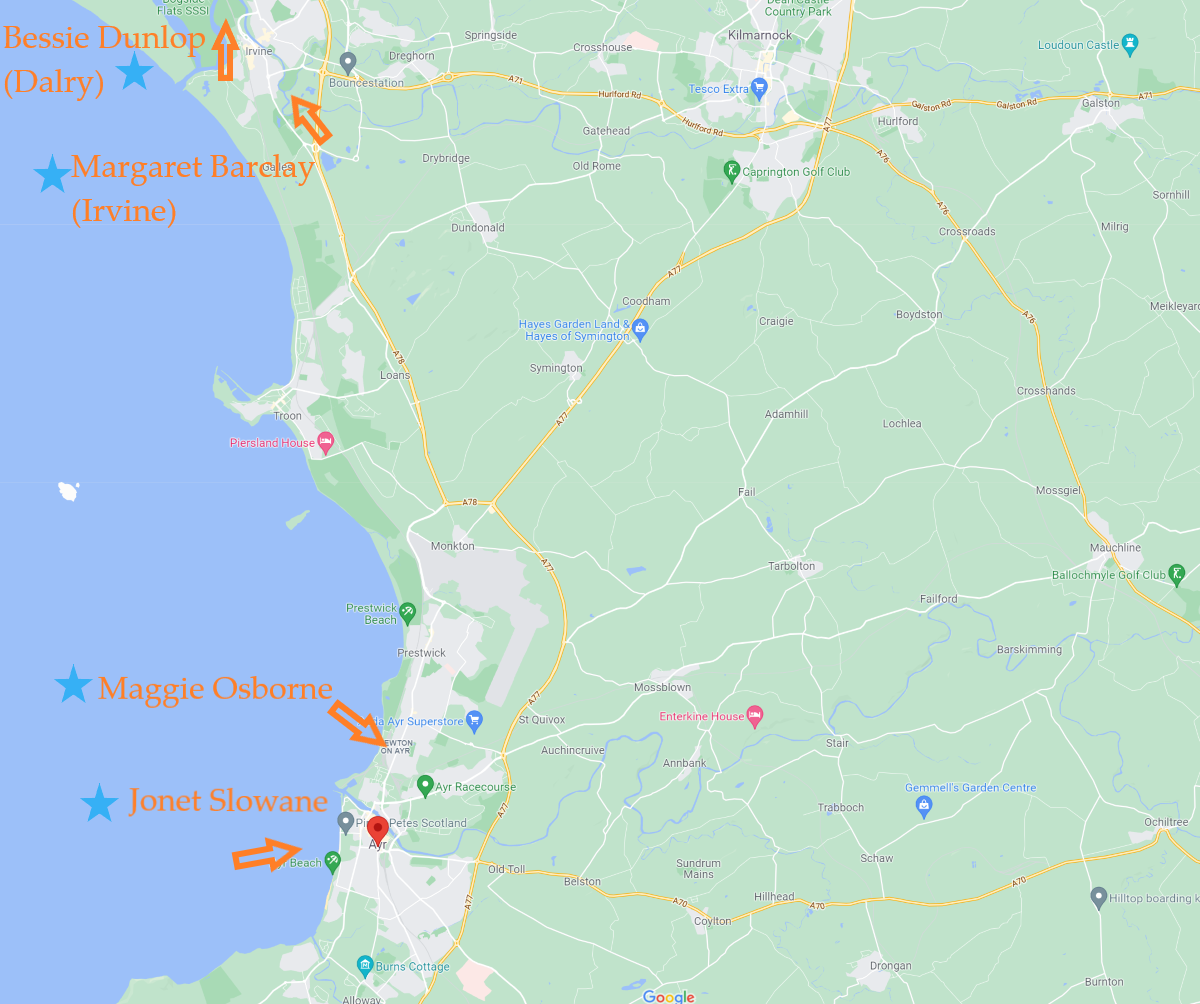
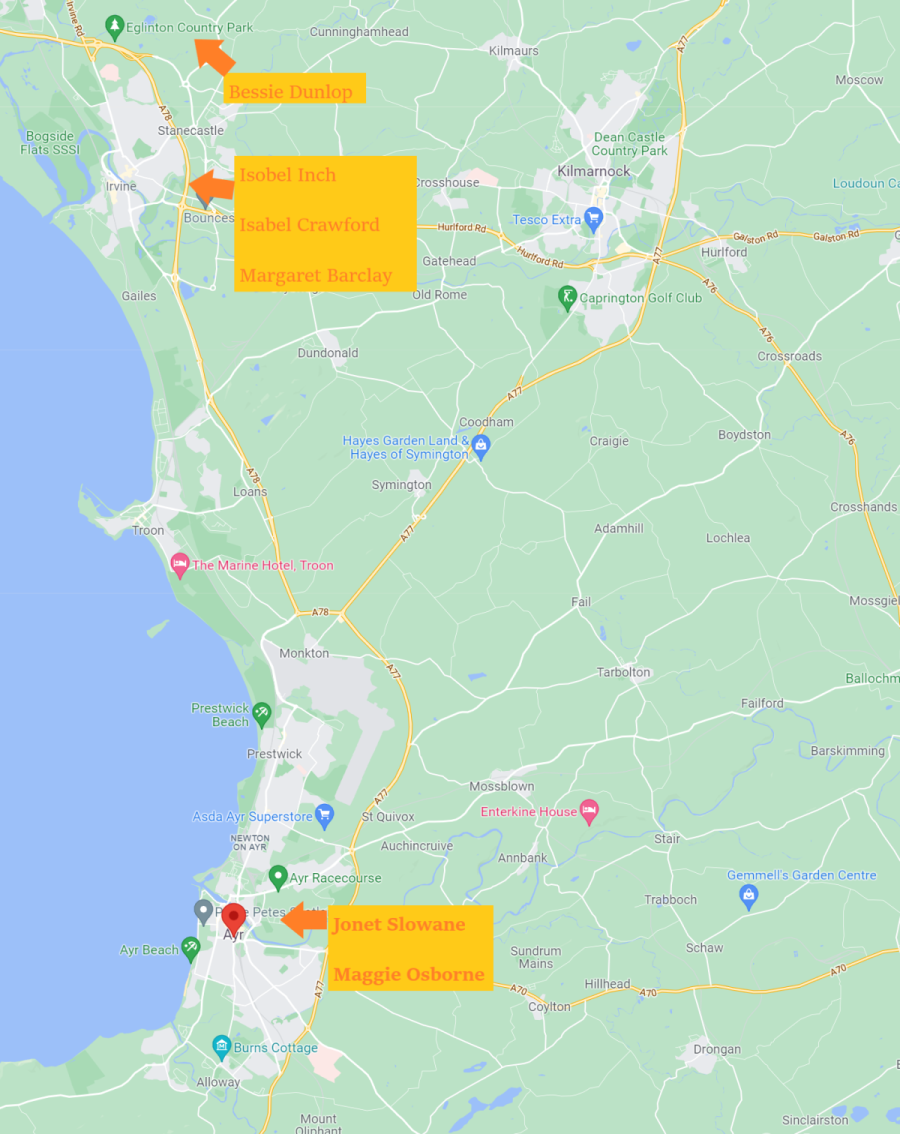
Remove Ayr map and replace with updated version

diff --git a/assets/css/style.css b/assets/css/style.css
@@ -120,6 +120,10 @@ h1, h2 {
     margin-left: 30px;
 }
 
+#witch-section-heading {
+  padding-bottom: 30px;
+}
+
 #circle-container {
     width: 300px;
     height: 300px;
@@ -301,14 +305,16 @@ hr {
 #map-heading {
     padding-top: 30px;
     padding-bottom: 15px;
+    margin-bottom: 30px;
 }
 
-/* #map {
+#map {
     background: url(../images/ayrmap.PNG) no-repeat center center;
     height: 1200px;
-    width: 1200px;
-    margin-left: 300px;    
-} */
+    width: 1200px; 
+    margin-left: 30px;
+        
+} 
 
 /* factoids */
 
@@ -556,11 +562,6 @@ footer {
       margin: 0 auto;
     }
 
-    /* #welcome {
-        padding: 30px 0;
-        margin: 0;
-    } */
-
     #witch-1, #witch-2, #witch-3, #witch-4, #witch-5, #witch-6 {
         width: 100%;
         float: left;
@@ -569,9 +570,14 @@ footer {
     }
 
     #map {
+      object-fit: scale-down;
       clear: both;      
-      margin-left: 30px;
-      padding-top: 30px;        
+      padding-top: 30px;
+      padding-left: 0;
+      width: 100%;
+      left:0;
+      margin-left: 0; 
+      border: 0;       
     }
 
     hr {
@@ -623,6 +629,8 @@ footer {
     text-align: center;
     padding: 0 20px;
     font-size: inherit;
+    height: 60px;
+    margin-left: 0px;
   }
 
   

diff --git a/index.html b/index.html
@@ -44,7 +44,7 @@
     </header>
 
     <section id="witches">
-        <h1>Who were the witches of Ayshire?</h1>
+        <h1 id="witch-section-heading">Who were the witches of Ayshire?</h1>
         <div id="witch-1">
             <div class="witch-1-heading">
                 <h2><i class="fas fa-hat-wizard"></i> Jonet Slowane <i class="fas fa-hat-wizard"></i></h2>
@@ -247,7 +247,7 @@
     <section>
         <div id="map">
             <h1 id="map-heading">Map of Ayrshire</h1>
-            
+
         </div>
     </section>
 
